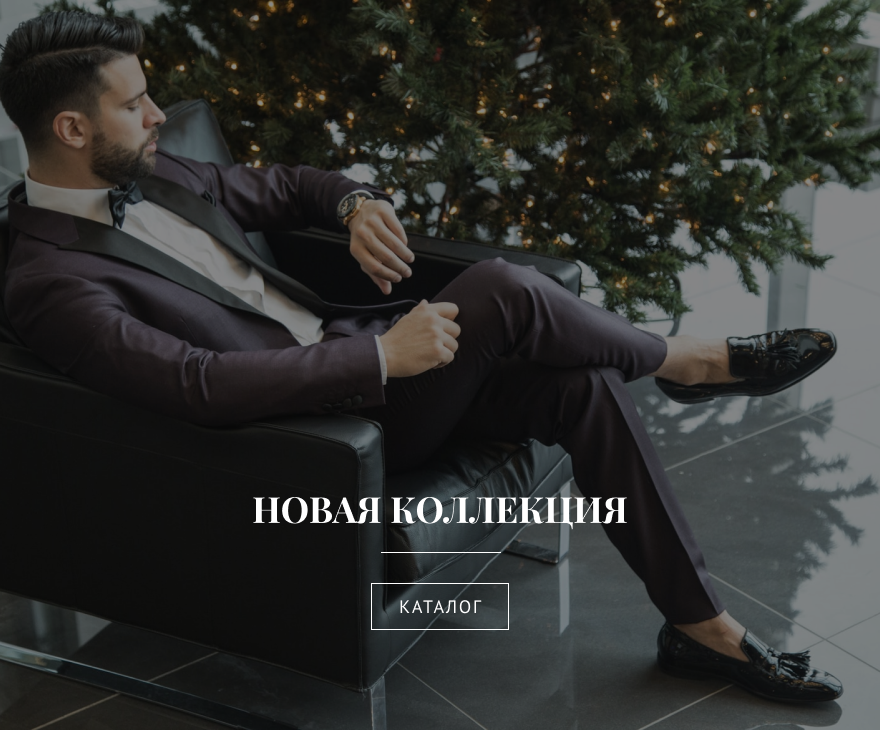
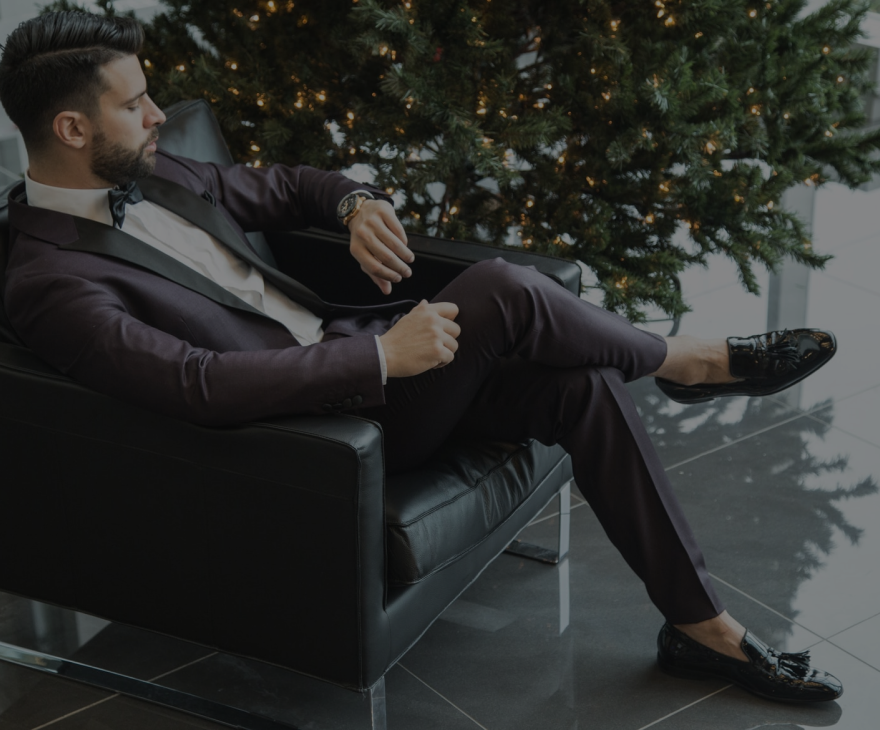
Add Season block + adaptive && small changes

Changed region(s): [[0.2761, 0.663, 0.7057, 0.7233], [0.4602, 0.8137, 0.5523, 0.8438]]

diff --git a/src/components/Season/Season.module.css b/src/components/Season/Season.module.css
@@ -1,0 +1,149 @@
+* {
+    color: #FFFFFF;
+}
+
+.title {
+    font-family: 'Playfair Display';
+    font-size: 36px;
+    line-height: 42px;
+    text-transform: uppercase;
+    color: #FFFFFF;
+    padding-top: 90px;
+    display: flex;
+    justify-content: center;
+}
+
+.season__title:after {
+    content: '';
+    width: 120px;
+    height: 2px;
+    background-color: #FFFFFF;
+    display: flex;
+    margin: 0 auto;
+    margin-top: 50px;
+}
+
+.season {
+    display: grid;
+    grid-template-columns: 2fr 2fr;
+}
+
+.cards {
+    display: grid;
+    grid-template-columns: 1fr 1fr 1fr;
+    gap: 50px;
+    padding: 50px 80px 25px 80px;
+}
+
+.cards__image {
+    background: #191B1C;
+    padding: 55px 22px;
+}
+
+.cards__item_name {
+    font-family: 'Playfair Display';
+    font-size: 18px;
+    line-height: 21px;
+    color: #FFFFFF;
+    padding: 25px 0px 10px 0px;
+}
+
+.cards__item_price {
+    font-family: 'Playfair Display';
+    font-size: 16px;
+    line-height: 19px;
+    color: #D0D0D0;
+}
+
+.new__collection {
+    background: url('../../assets/img/collection__image.png') no-repeat center top / cover;
+}
+
+.collection__title {
+    display: grid;
+}
+
+.image__text {
+    margin-top: 50%;
+    font-family: 'Playfair Display';
+    font-size: 36px;
+    line-height: 42px;
+    text-align: center;
+    text-transform: uppercase;
+    color: #FFFFFF;
+}
+
+.collection__title:after {
+    content: '';
+    width: 120px;
+    height: 2px;
+    background-color: #FFFFFF;
+    margin: 0 auto;
+    margin-top: 30px;
+}
+
+.catalog {
+    display: flex;
+    justify-content: center;
+    padding-top: 30px;
+}
+
+.catalog__btn {
+    padding: 12px 28px;
+    border: 1px solid #FFFFFF;
+    font-size: 18px;
+    line-height: 23px;
+    text-align: center;
+    letter-spacing: 0.1em;
+    text-transform: uppercase;
+    color: #FFFFFF;
+}
+
+@media screen and (max-width: 1435px) {
+    .collection__image_title {
+        display: flex;
+        flex-direction: column;
+    }
+
+    .image__text {
+        margin-top: 90px;
+    }
+}
+
+@media screen and (max-width: 1295px) {
+    .cards {
+        grid-template-columns: 1fr 1fr;
+        gap: 30px;
+        padding: 25px 40px 15px 40px;
+    }
+}
+
+@media screen and (max-width: 868px) {
+    .season {
+        grid-template-columns: 1fr;
+    }
+
+    .cards__image {
+        text-align: center;
+    }
+}
+
+@media screen and (max-width: 635px) {
+    .cards {
+        grid-template-columns: 1fr;
+        padding: 25px 10px 15px 10px;
+    }
+
+    .cards__image {
+        border-radius: 25px;
+    }
+
+    .cards__item {
+        margin-top: 45px;
+    }
+
+    .cards__item_name,
+    .cards__item_price {
+        text-align: center;
+    }
+}

diff --git a/src/components/Season/Season.jsx b/src/components/Season/Season.jsx
@@ -1,5 +1,52 @@
 import React from "react";
+import styles from "./Season.module.css";
+import { seasonData } from "../../assets/db/db";
 
 export const Season = () => {
-    return <div></div>;
+    return (
+        <section className={styles.season}>
+            <div className={styles.season__card}>
+                <div className={styles.season__title}>
+                    <h3 className={styles.title}>СЕЗОН 2020/21</h3>
+                </div>
+                <div className={styles.cards}>
+                    {seasonData.map((item, i) => {
+                        return (
+                            <div className={styles.cards__item} key={i}>
+                                <div className={styles.cards__image}>
+                                    <img src={item.image} alt="watch" />
+                                </div>
+                                <div>
+                                    <div className={styles.cards__item_name}>
+                                        {item.name}
+                                    </div>
+                                    <p className={styles.cards__item_price}>
+                                        {item.price}
+                                    </p>
+                                </div>
+                            </div>
+                        );
+                    })}
+                </div>
+            </div>
+            <div className={styles.new__collection}>
+                <div className={styles.container}>
+                    <div className={styles.collection__block}>
+                        <div className={styles.collection__image_title}>
+                            <div className={styles.collection__title}>
+                                <h3 className={styles.image__text}>
+                                    Новая коллекция
+                                </h3>
+                            </div>
+                            <div className={styles.catalog}>
+                                <div className={styles.catalog__btn}>
+                                    <a href="/">Каталог</a>
+                                </div>
+                            </div>
+                        </div>
+                    </div>
+                </div>
+            </div>
+        </section>
+    );
 };

diff --git a/src/App.jsx b/src/App.jsx
@@ -5,6 +5,7 @@ import { Header } from "./components/Header/Header";
 import { Main } from "./components/Main/Main";
 import { Routes, Route } from "react-router-dom";
 import { NotFound } from "./components/NotFound/NotFound";
+import { Season } from "./components/Season/Season";
 
 function App() {
     return (
@@ -24,8 +25,8 @@ function App() {
                 <Route path="/routes" element={<Header />} />
                 <Route path="*" element={<NotFound />} />
             </Routes>
-            <div className="dark__bg">
-                <div className="container"></div>
+            <div className={styles.dark__bg}>
+                <Season />
             </div>
         </>
     );

diff --git a/src/assets/db/db.js b/src/assets/db/db.js
@@ -1,3 +1,5 @@
+import watch from "../img/watch.png";
+
 export const items = [
     {
         name: "Понравилось",
@@ -7,5 +9,23 @@ export const items = [
     },
     {
         name: "Настройки",
+    },
+];
+
+export const seasonData = [
+    {
+        image: watch,
+        name: "Louis XVI ATHOS",
+        price: "165 000 руб.",
+    },
+    {
+        image: watch,
+        name: "Louis XVI ATHOS",
+        price: "165 000 руб.",
+    },
+    {
+        image: watch,
+        name: "Louis XVI ATHOS",
+        price: "165 000 руб.",
     },
 ];

diff --git a/src/components/Header/Header.module.css b/src/components/Header/Header.module.css
@@ -76,6 +76,7 @@ nav {
         height: 100%;
         text-align: center;
         transition: 0.5s all ease;
+        z-index: 1;
     }
 
     .header__icons {

diff --git a/src/assets/db/index.js b/src/assets/db/index.js
@@ -1,0 +1,1 @@
+export * from "./db.js";
